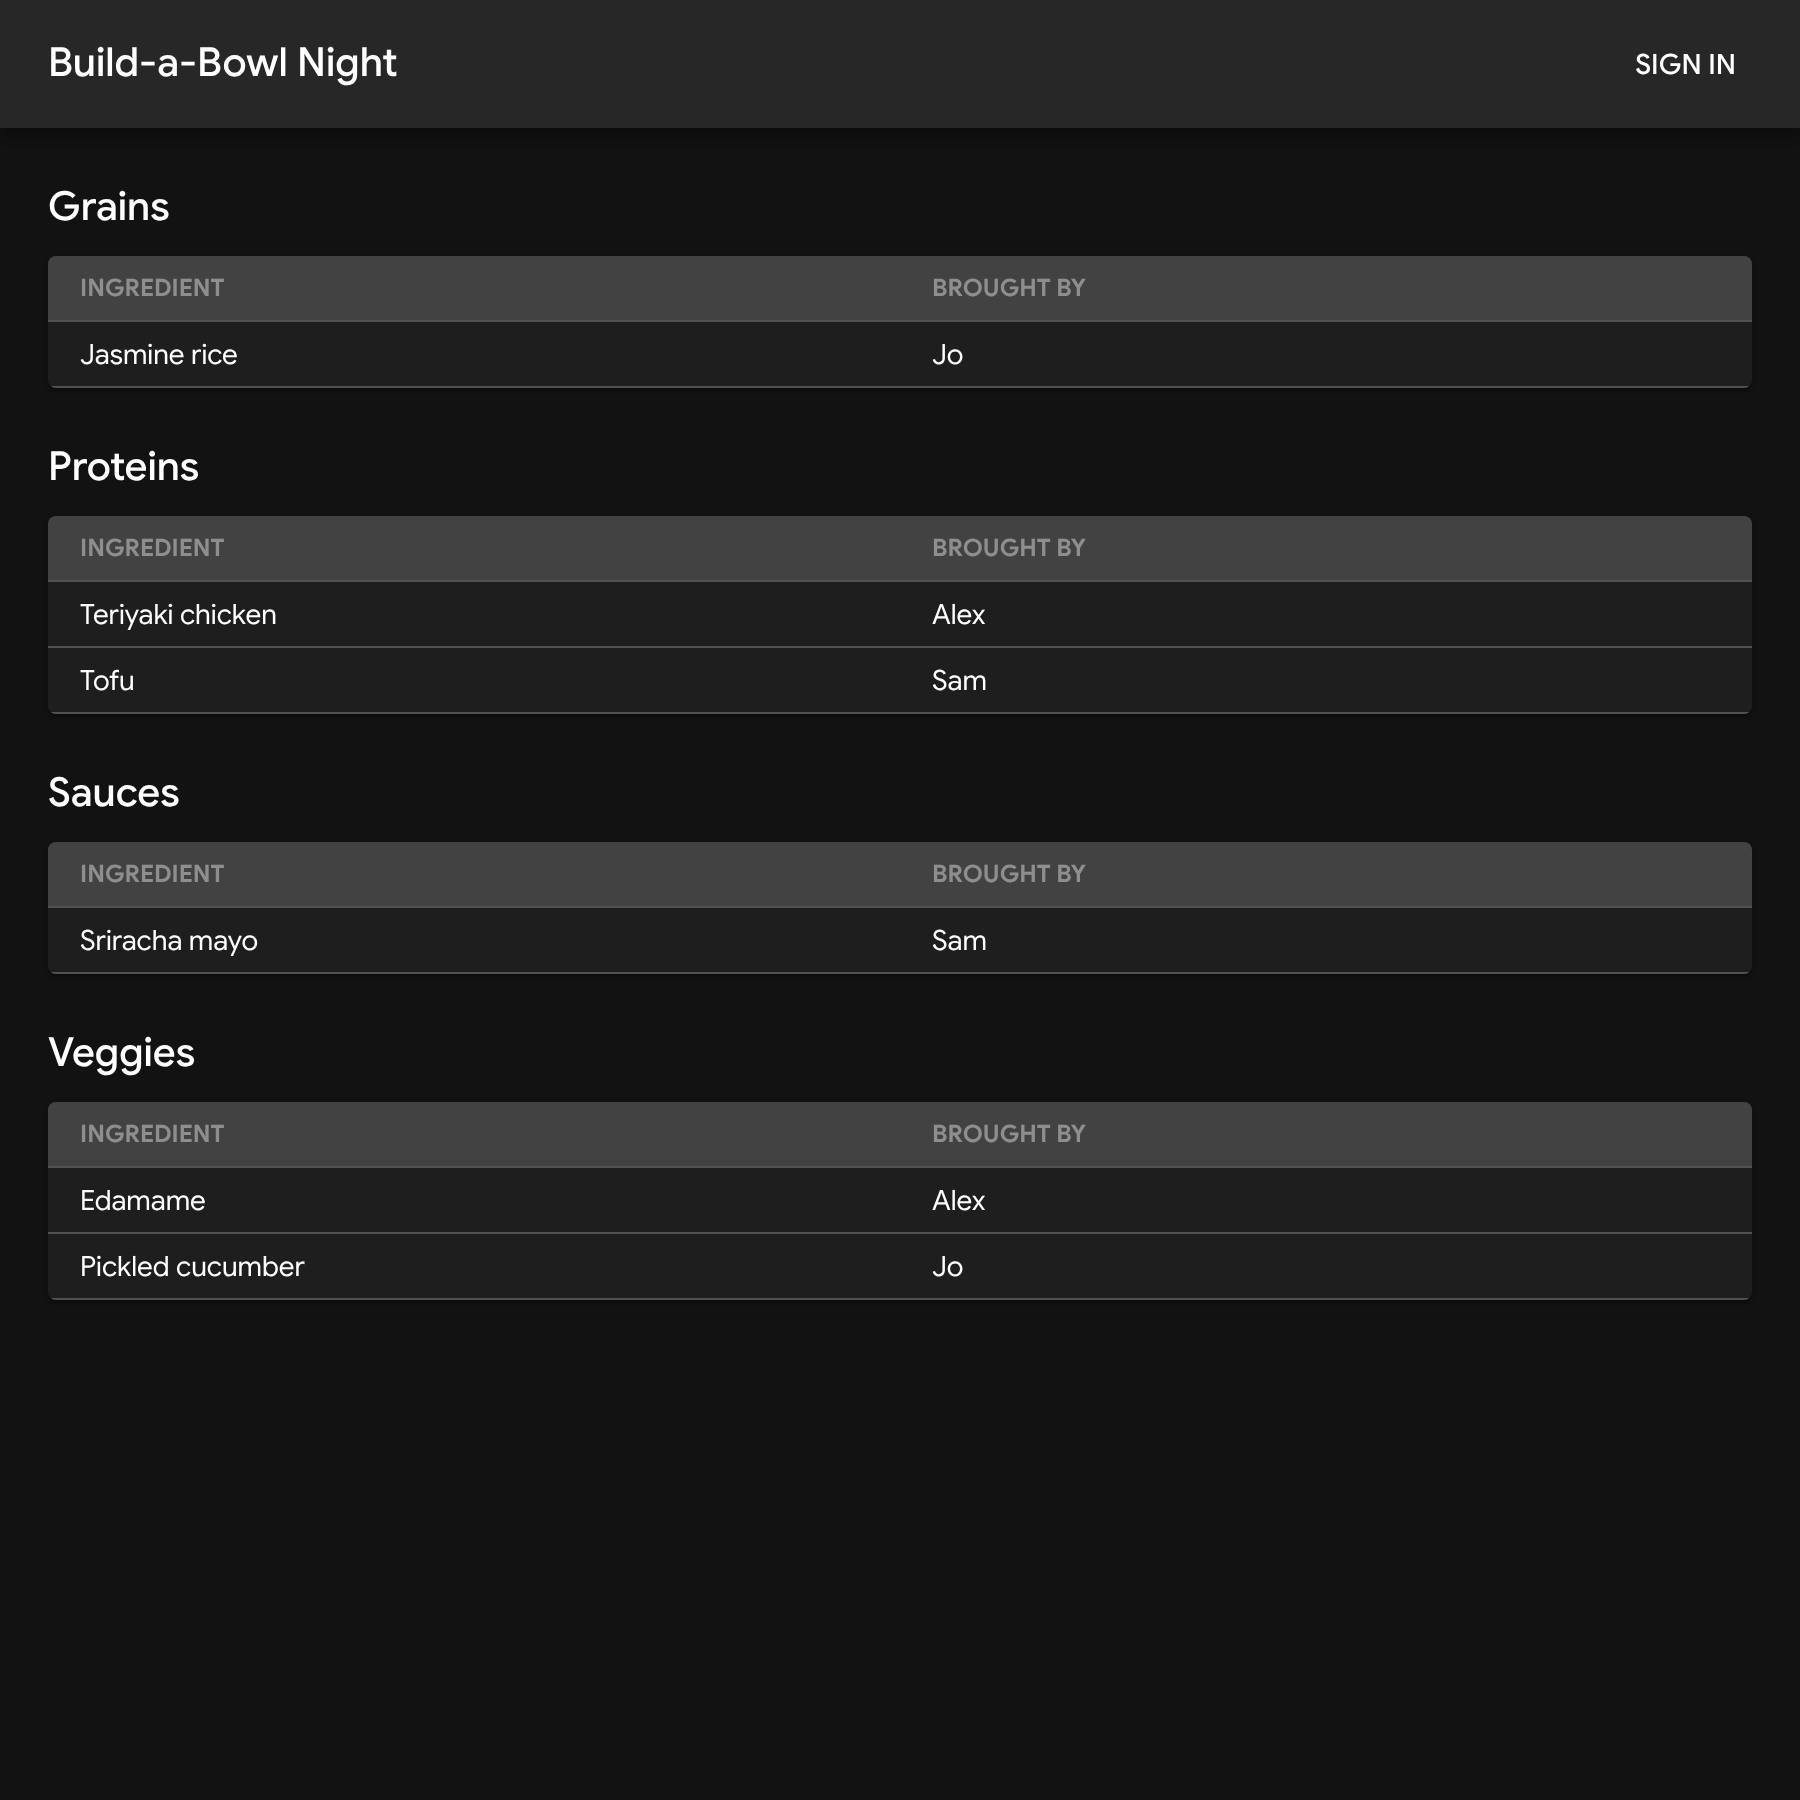
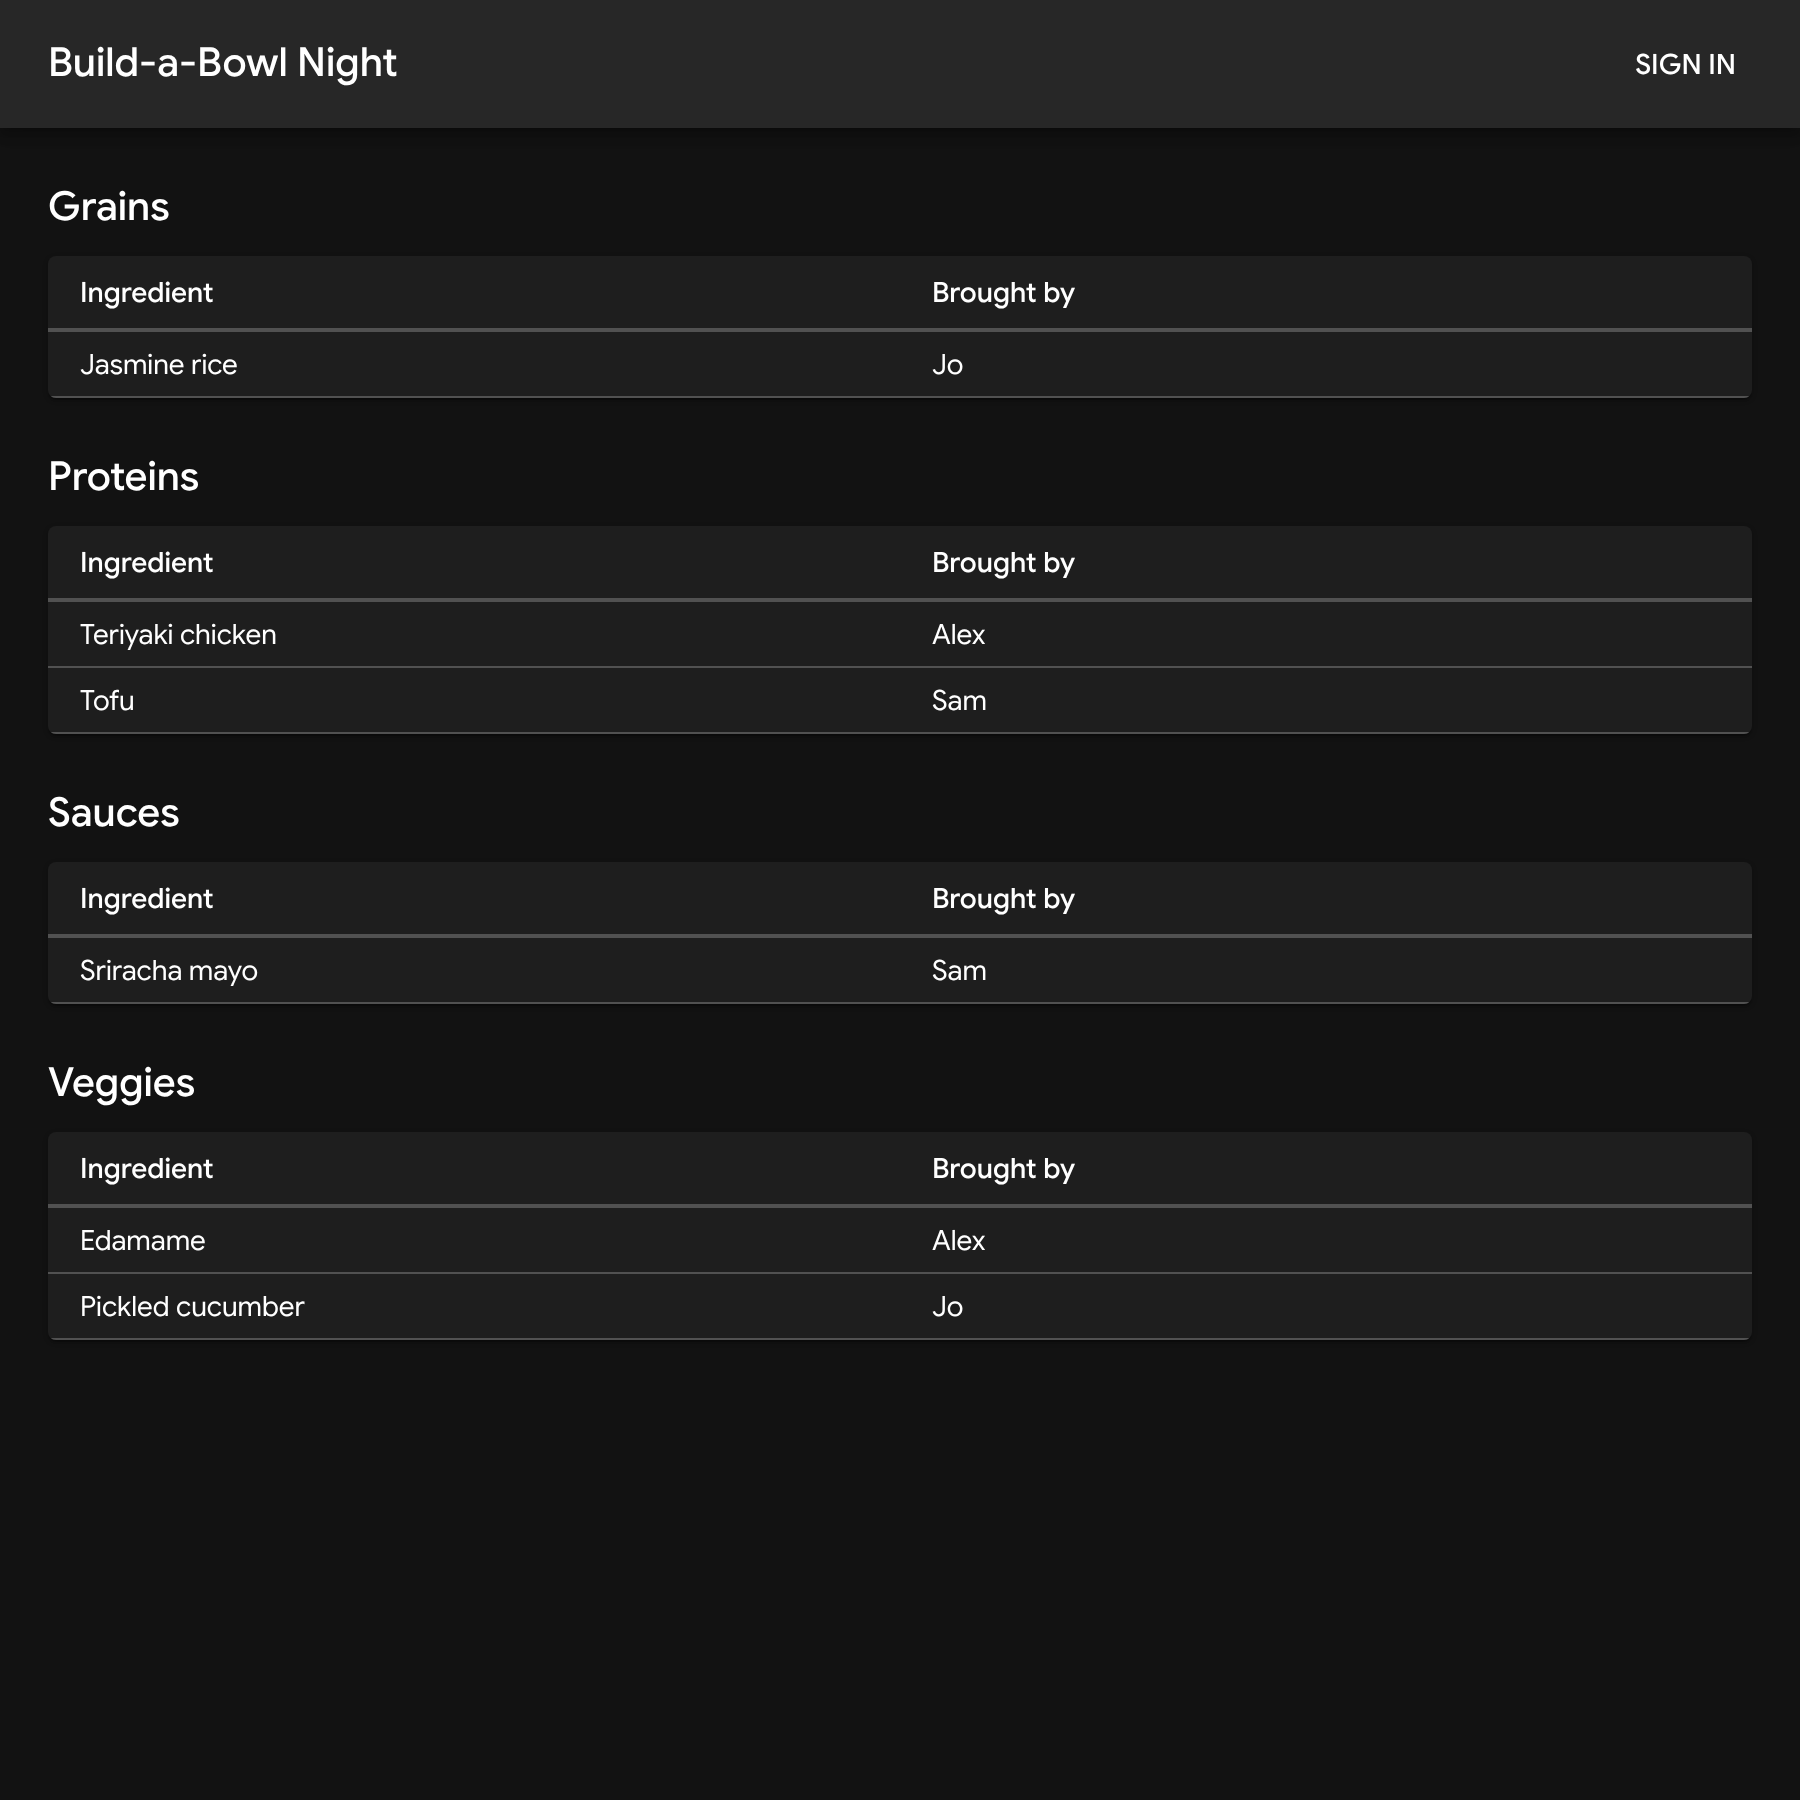
Use default text style for column headers with a thicker bottom border
Claude-Session: https://claude.ai/code/session_01YaXshzgAPddr5nf8bECYCv

Changed region(s): [[0.0, 0.4356, 0.9956, 0.7467], [0.0, 0.2489, 0.9956, 0.4044], [0.0, 0.1244, 0.9956, 0.2178]]

diff --git a/site/src/components/IngredientTable.tsx b/site/src/components/IngredientTable.tsx
@@ -16,14 +16,8 @@ interface IngredientTableProps {
   ingredients: Ingredient[];
 }
 
-// Style for the column header cells: small, bold, all-caps text in the default text color at 40% opacity.
-const headerCellSx = {
-  typography: "caption",
-  fontWeight: "bold",
-  textTransform: "uppercase",
-  color: "text.primary",
-  opacity: 0.4,
-} as const;
+// Style for the column header cells: default text with a thicker bottom border.
+const headerCellSx = { borderBottomWidth: 2 } as const;
 
 // Vertical stack of cards, one per category, each with a plain-text title above its table.
 export default function IngredientTable({ ingredients }: IngredientTableProps) {
@@ -42,15 +36,8 @@ export default function IngredientTable({ ingredients }: IngredientTableProps) {
           <TableContainer component={Paper}>
             <Table size="small" sx={{ tableLayout: "fixed" }}>
               <TableHead>
-                {/* Column headers: light gray in light mode, dark gray in dark mode. */}
-                <TableRow
-                  sx={(theme) => ({
-                    bgcolor:
-                      theme.palette.mode === "dark"
-                        ? theme.palette.grey[800]
-                        : theme.palette.grey[200],
-                  })}
-                >
+                {/* Column headers: default text style, set off by a thicker bottom border. */}
+                <TableRow>
                   <TableCell sx={headerCellSx}>Ingredient</TableCell>
                   <TableCell sx={headerCellSx}>Brought by</TableCell>
                 </TableRow>
